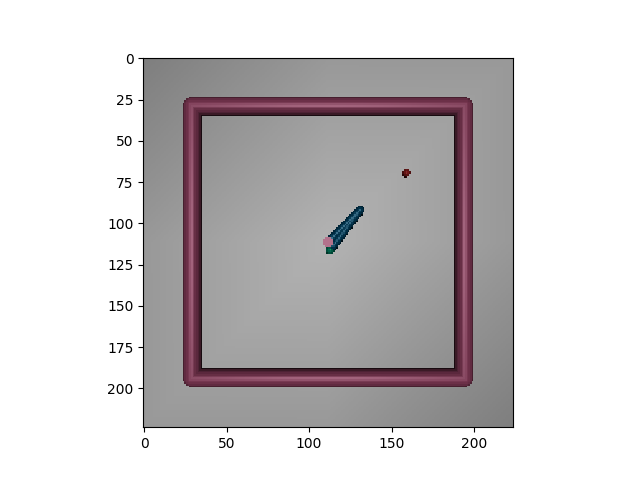
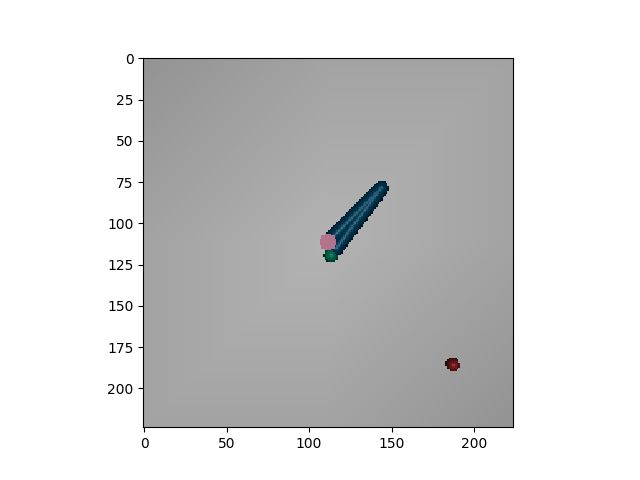
Updated reacher image

Changed region(s): [[0.2812, 0.1875, 0.75, 0.8125], [0.5, 0.375, 0.625, 0.5625], [0.625, 0.3438, 0.6562, 0.375]]

diff --git a/gym_vision/envs/reacher.py b/gym_vision/envs/reacher.py
@@ -22,7 +22,7 @@ class ReacherEnv(reacher.ReacherEnv):
 
     def viewer_setup(self):
         self.viewer.cam.trackbodyid = -1
-        self.viewer.cam.distance = 1.0
+        self.viewer.cam.distance = .6
         self.viewer.cam.elevation = -90
         self.viewer.cam.lookat[:] = np.array([0, 0, 0])
 
